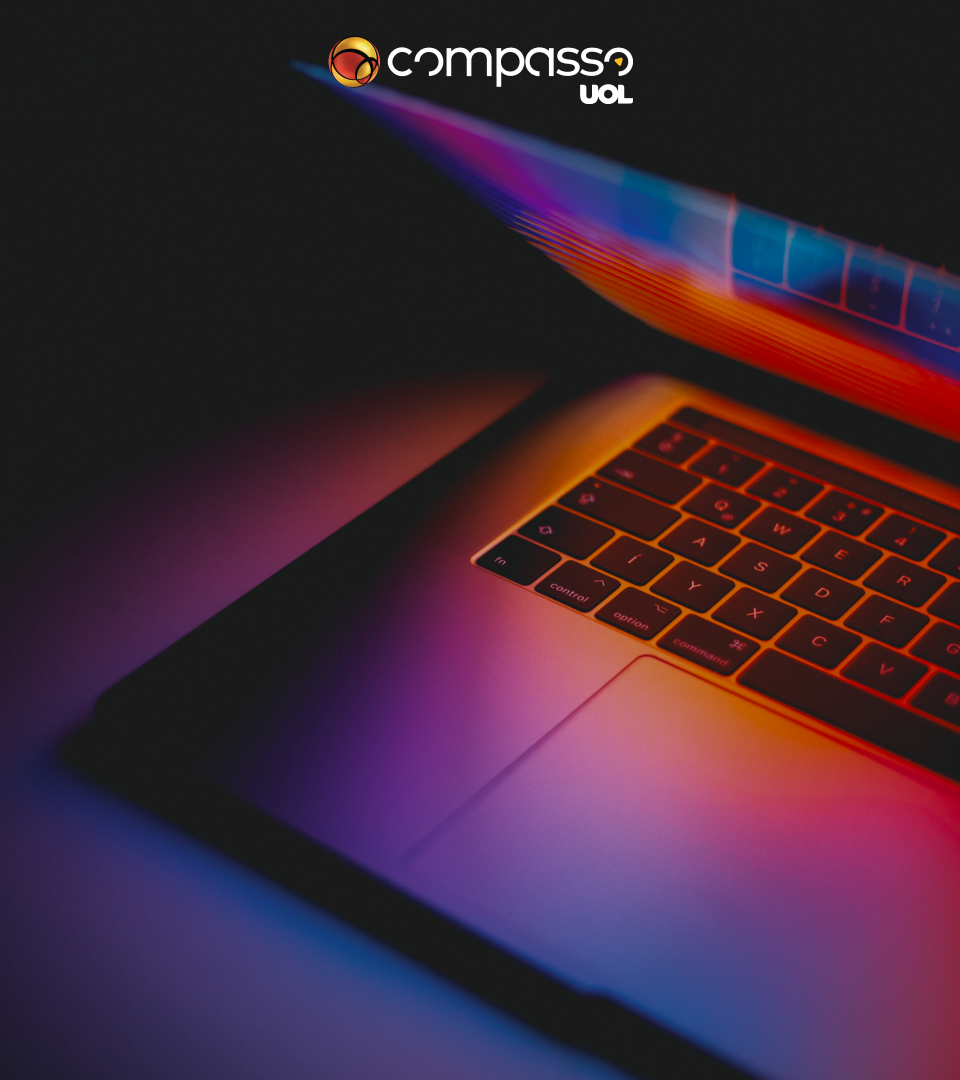
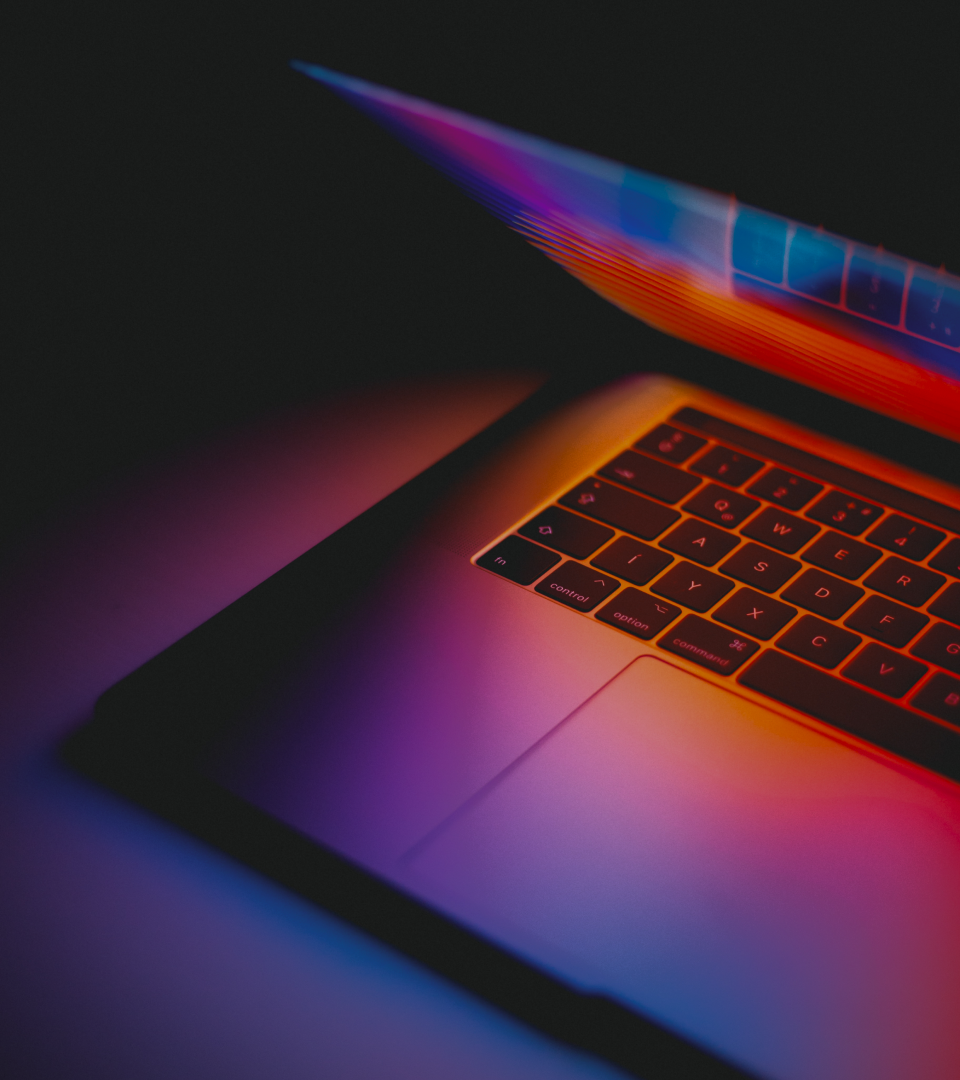
Update signIn background image

Changed region(s): [[0.3438, 0.0306, 0.6562, 0.1222]]

diff --git a/styles/pages/signIn.css b/styles/pages/signIn.css
@@ -14,12 +14,7 @@ body {
   align-items: center;
   justify-items: center;
 
-  background-image: url(../../assets/images/signInBackground.png),
-    var(--primary-gradient);
-
-  background-repeat: no-repeat;
-  background-position: right;
-  background-size: contain;
+  background-image: var(--primary-gradient);
 }
 
 main {
@@ -41,4 +36,31 @@ main {
 
 .main__title > p {
   color: var(--text-secondary);
+}
+
+.signIn__bg {
+  background-image: url(../../assets/images/signInBackground.png);
+  background-repeat: no-repeat;
+  background-position: right;
+  background-size: cover;
+
+  width: 100%;
+  height: 100%;
+
+  display: flex;
+  justify-content: center;
+  align-items: flex-start;
+
+  padding-top: var(--size-8);
+}
+
+@media screen and (max-width: 1280px) {
+  body {
+    display: flex;
+    align-items: center;
+    justify-content: center;
+  }
+  .signIn__bg {
+    display: none;
+  }
 }

diff --git a/index.html b/index.html
@@ -48,6 +48,9 @@
         <button type="submit" class="signIn__button button">Continuar</button>
       </form>
     </main>
+    <figure class="signIn__bg">
+      <img src="assets/images/LogoCompassoBranco.png" alt="Logo Compass.uol" />
+    </figure>
     <script src="scripts/login.js"></script>
     <script src="scripts/signInPage.js"></script>
   </body>
